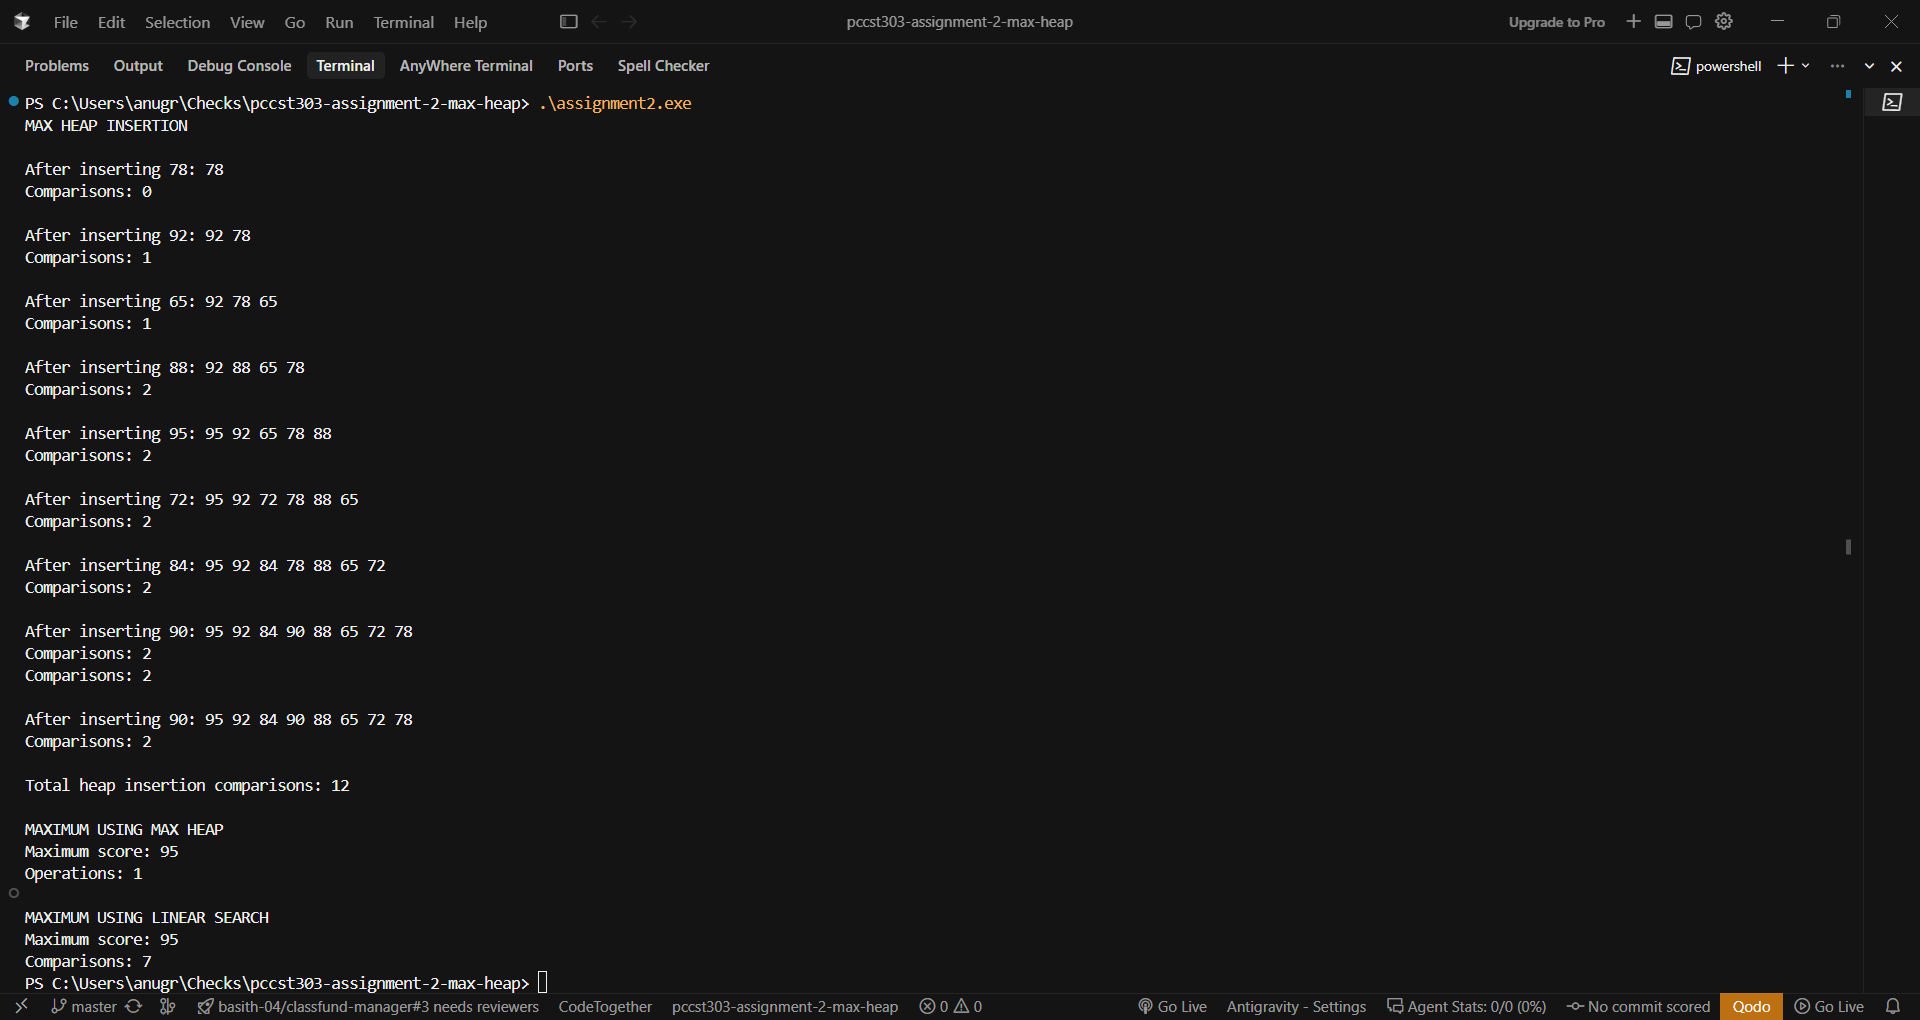
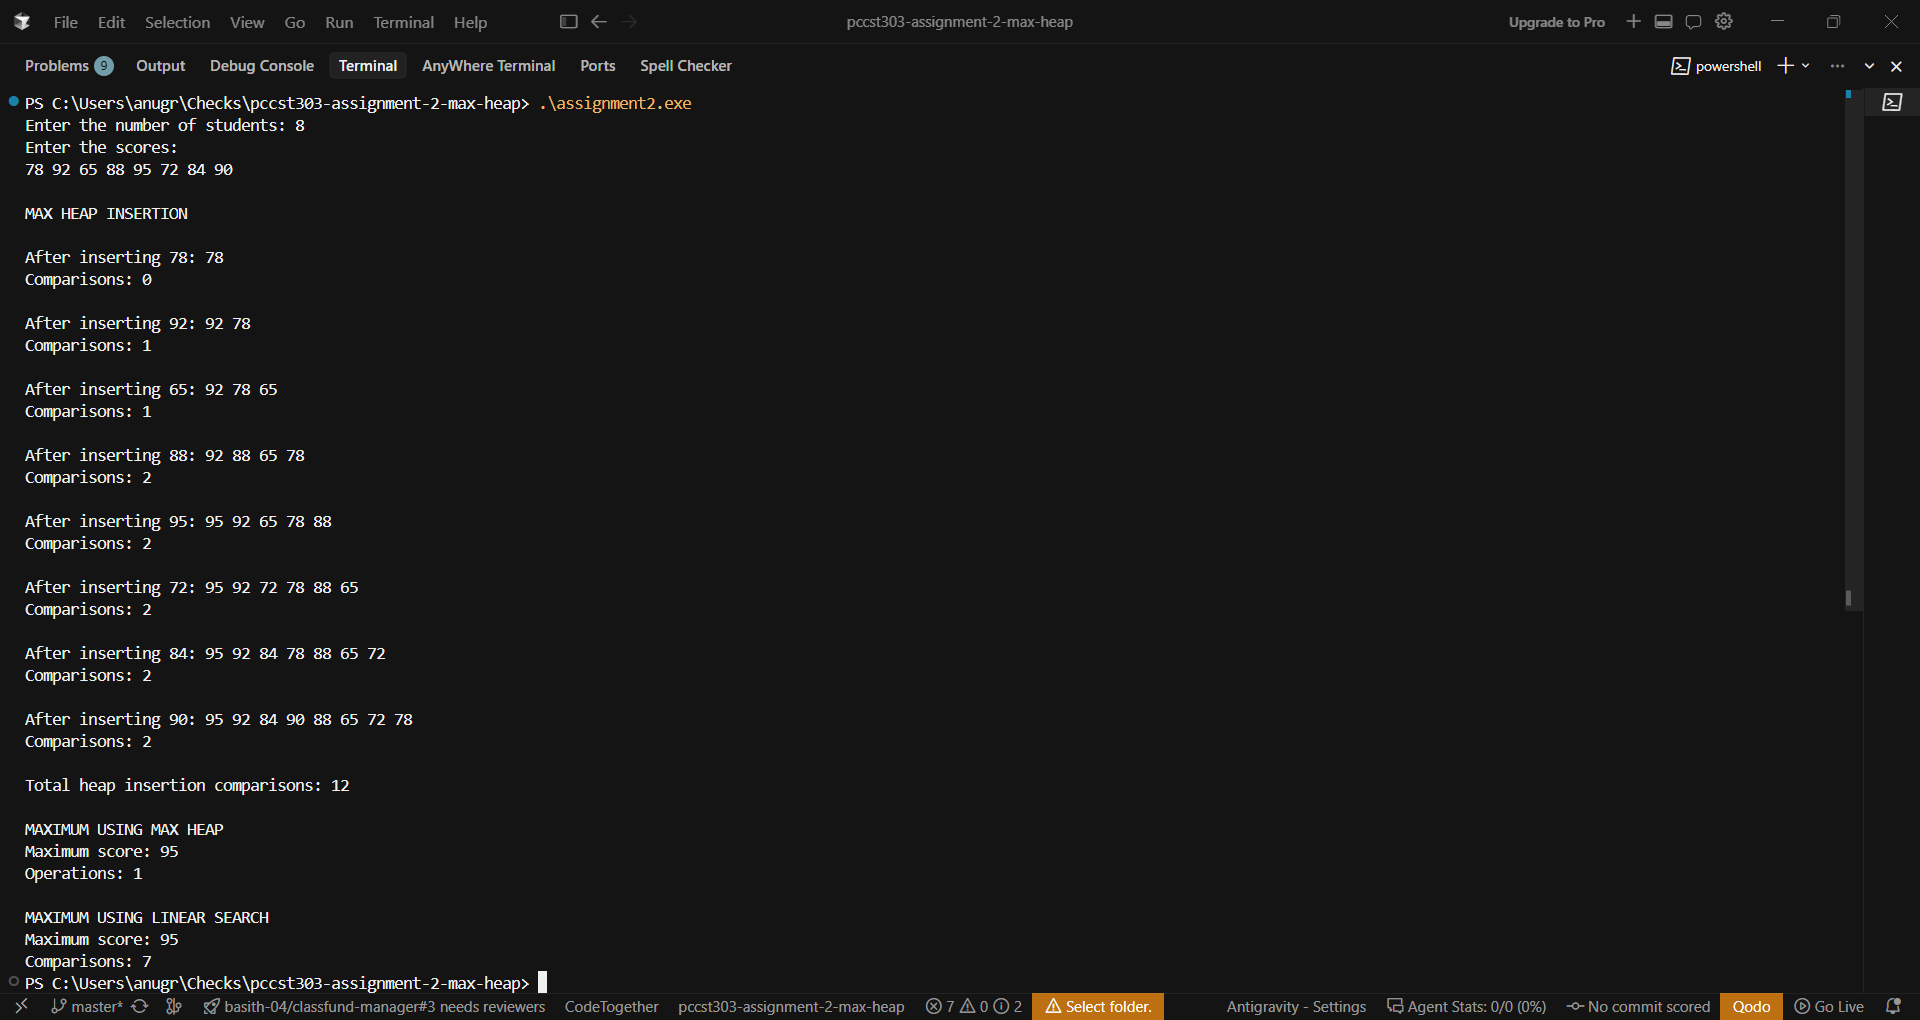
Edited README and update output image

Changed region(s): [[0.0, 0.1216, 0.2188, 0.6686], [0.0625, 0.9725, 0.625, 1.0], [0.0312, 0.0608, 0.375, 0.0912]]

diff --git a/README.md b/README.md
@@ -3,12 +3,15 @@
 ## Data Structures and Algorithms
 
 ### Topic
+
 Max Heap vs Linear Search for finding the highest student score.
 
 ## Input
+
 78, 92, 65, 88, 95, 72, 84, 90
 
 ## Objectives
+
 - Implement a Max Heap in C
 - Insert all student scores
 - Record the heap after every insertion
@@ -18,15 +21,17 @@ Max Heap vs Linear Search for finding the highest student score.
 - Analyse time and space complexity
 
 ## Result
+
 Maximum score = 95
 Max Heap maximum access = O(1)
 Linear Search maximum = O(n)
 Max Heap insertion = O(log n)
 
 ## Repository Structure
+
 - `src/` - C source code
 - `input/` - Input data
 - `output/` - Program output
 - `trace/` - Heap trace table
 - `analysis/` - Complexity and comparison
-- `screenshots/` - Execution screenshot
+
